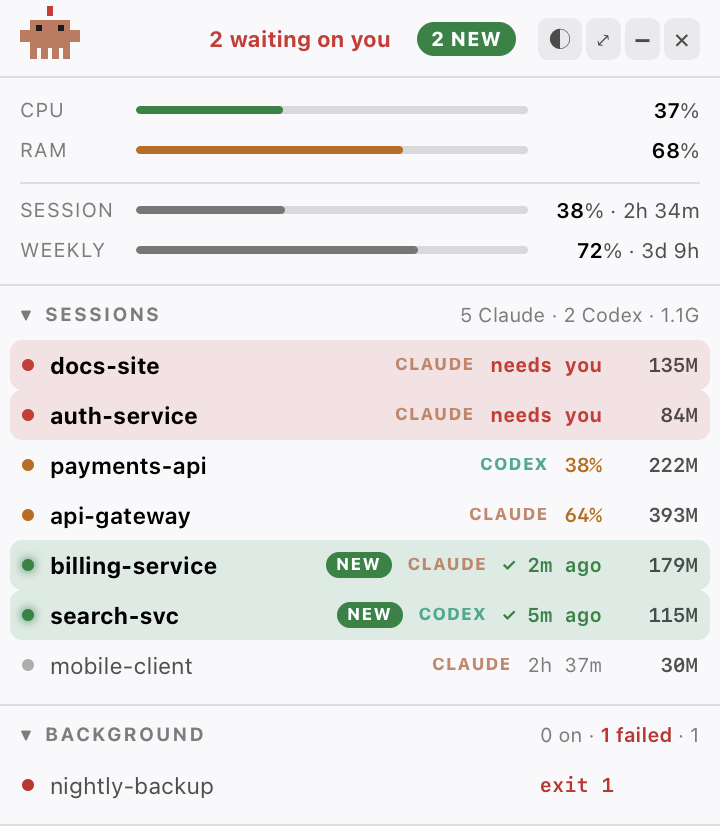
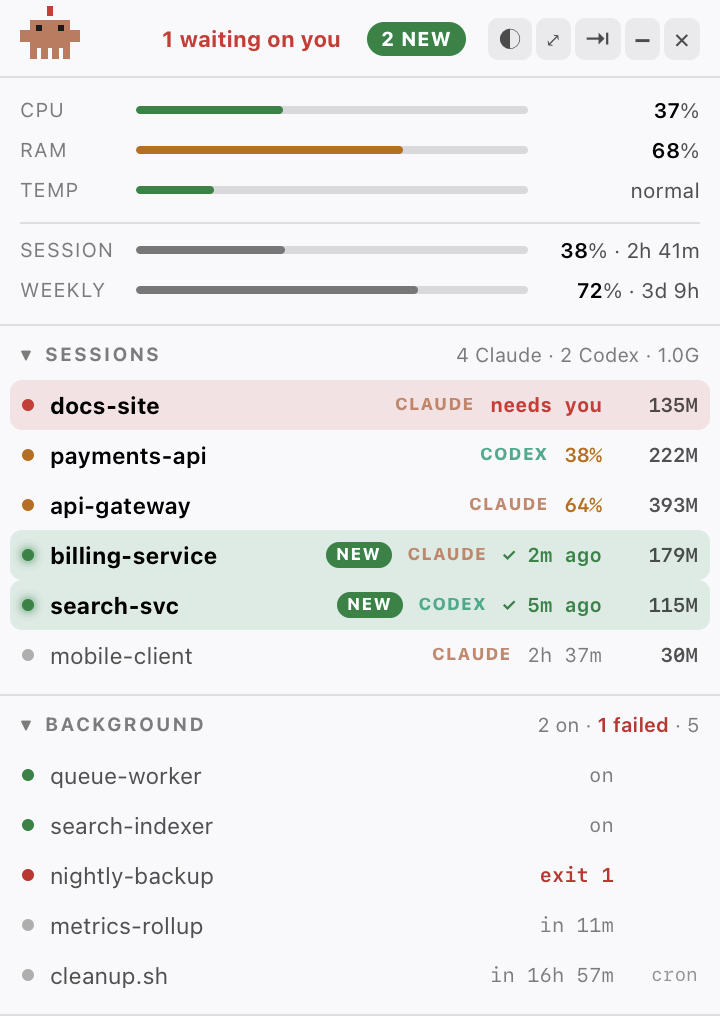
Refresh the screenshots for release
Regenerated from synthetic data against the current build, so they show the
thermal row, the current state colours and the parked tab.

diff --git a/README.md b/README.md
@@ -122,8 +122,9 @@ moved) and a log untouched for three weeks (it's dead, delete it). From there:
 it — and asks twice first.
 
 <p align="center">
-  <img src="docs/demo-dark.png" width="46%" alt="Dark theme">
-  <img src="docs/demo-min.png" width="46%" align="top" alt="Minimised">
+  <img src="docs/demo-dark.png" width="44%" alt="Dark theme">
+  <img src="docs/demo-min.png" width="44%" align="top" alt="Minimised">
+  <img src="docs/parked-tab.png" width="4%" align="top" alt="Parked at the edge">
 </p>
 
 Minimised it's one line — but it keeps the two limit bars, because those are the
